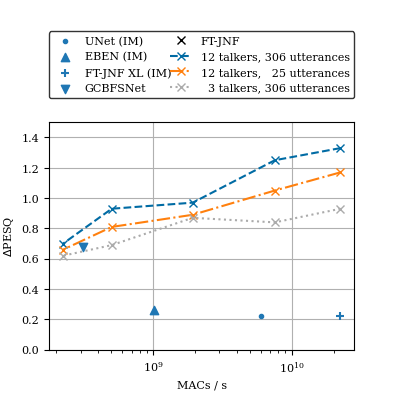
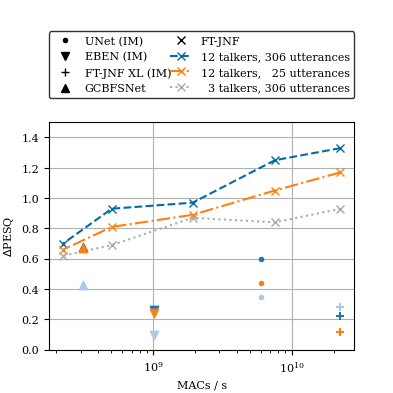
update example page

diff --git a/index.html b/index.html
@@ -3,7 +3,7 @@
 <html lang="en-US">
 <head>
 <meta charset="UTF-8">
-<title>Efficient own voice reconstruction for hearables with an in-ear microphone</title>
+<title>Low Complexity Own Voice Reconstruction for Hearables with an In-ear Microphone</title>
 <link rel="stylesheet" href="styles.css" />
 </head>
 
@@ -11,18 +11,18 @@
 
 <div>
 <h1>
-Efficient own voice reconstruction for hearables with an in-ear microphone</h1>
+Low Complexity Own Voice Reconstruction for Hearables with an In-ear Microphone</h1>
 <p>
 Mattes Ohlenbusch, Christian Rollwage, Simon Doclo
 </p>
 
 <h2>Abstract</h2>
 <p>
-Hearables equipped with one or more microphones are commonly used for speech communication. 
-Here, we consider the scenario where the hearable is used to capture the user’s own voice in a noisy environment (e.g., to be transmitted via a wireless link to another hearable or a mobile phone). 
-In this scenario, own voice reconstruction (OVR) systems are essential to enhance the quality and intelligibility of the recorded noisy own voice signals. 
+Hearable devices, equipped with one or more microphones, are commonly used for speech communication. 
+Here, we consider the scenario where a hearable is used to capture the user’s own voice in a noisy environment. 
+In this scenario, own voice reconstruction (OVR) is essential for enhancing the quality and intelligibility of the recorded noisy own voice signals. 
 In previous work, we developed a deep learning-based OVR system, aiming to reduce the amount of device-specific recordings for training by using data augmentation with phoneme-dependent models of own voice transfer characteristics. 
-Given the limited computational resources available on hearables, in this contribution we propose a low-complexity OVR system and investigate the required amount of device-specific recordings for effective data augmentation and fine-tuning. 
+Given the limited computational resources available on hearables, in this paper we propose low-complexity variants of an OVR system based on the FT-JNF architecture and investigate the required amount of device-specific recordings for effective data augmentation and fine-tuning. 
 Simulation results show that the proposed OVR system considerably improves speech quality, even under constraints of low complexity and a limited amount of device-specific recordings.</p>
 </div>
 
@@ -157,7 +157,7 @@ Transfer function measurements for simulating environmental noise at hearable mi
 	<img src="lineplot_lowresource_PESQ.png" alt="PESQ Improvement">
 	<figcaption>
 	PESQ improvement of the baseline systems and the proposed FT-JNF variants for different amounts of device-specific recordings (talkers, utterances). 
-    The baseline results are obtained using recordings from 12 talkers with 306 utterances each. 
+	Different systems are distinguished by different symbols, while different amounts of recordings are represented by different colors.
 	</figcaption>
 </figure>
 
